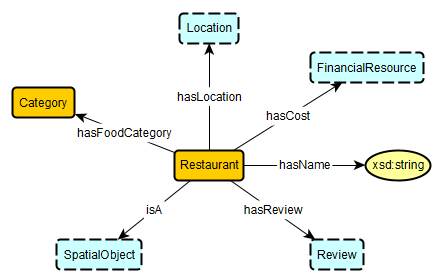
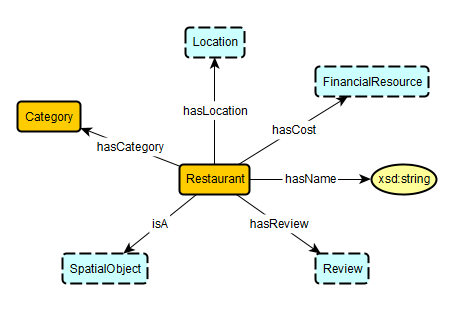
Updated restaurant schema

Changed region(s): [[0.0, 0.0286, 1.0, 0.9714], [0.678, 0.1714, 0.9728, 0.3429]]

diff --git a/deliverables/axioms.md b/deliverables/axioms.md
@@ -61,9 +61,9 @@
 "A Restaurant has a name represented by a string value"
 * `Restaurant SubClassOf hasReview some Review` <br />
 "A Restaurant has some review"
-* `Restaurant SubClassOf hasFoodCategory 0 or 1 xsd:string` <br />
-"A Restaurant may or may not have a Food Category represented by a string value"
-* `Restaurant SubClassOf isLocatedAt exactly 1 location` <br />
+* `Restaurant SubClassOf hasCategory 0 or 1 xsd:string` <br />
+"A Restaurant may or may not have a Category represented by a string value"
+* `Restaurant SubClassOf hasLocation exactly 1 location` <br />
 "A Restaurant has exactly one location"
 * `Restaurant SubClassOf hasCost exactly 1 FinancialResource` <br />
 "A Restaurant has exactly one cost of FinancialResource"
